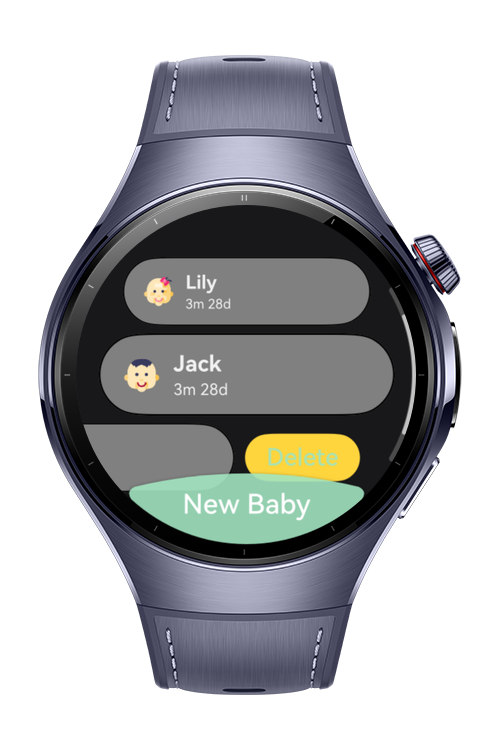
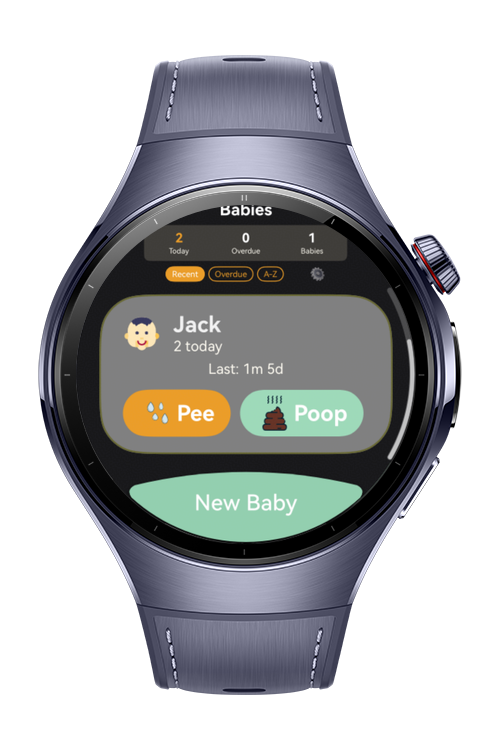
update screenshot and readme

Changed region(s): [[0.15, 0.276, 0.84, 0.736], [0.3, 0.6747, 0.36, 0.7053]]

diff --git a/README.md b/README.md
@@ -1,8 +1,11 @@
-> **Note:** To access all shared projects, get information about environment setup, and view other guides, please visit [Explore-In-HMOS-Wearable Index](https://github.com/Explore-In-HMOS-Wearable/hmos-index).
+> **Note:** To access all shared projects, get information about environment setup, and view other guides, please
+> visit [Explore-In-HMOS-Wearable Index](https://github.com/Explore-In-HMOS-Wearable/hmos-index).
 
 # Baby Day Tracker
 
-**Baby Day Tracker** is a sample HarmonyOS app that makes it easy to record newborn baby's diaper change.
+**Baby Day Tracker** is a HarmonyOS Next wearable app designed for caregivers to track newborn diaper changes for one or
+more babies. It runs on Huawei Watch 5 and provides quick-log actions, history filtering, care insights, reminders, and
+settings — all optimized for small watch screens.
 
 # Preview
 
@@ -15,21 +18,67 @@
 
 # Use Cases
 
-- **Baby:** Add babies to track their diaper change frequency.
-- **Diaper:** Record diaper change.
+## Baby Management
+
+- Add, edit, and archive baby profiles (name, birth date, gender)
+- Quick swipe-to-delete with confirmation dialog
+- Per-baby diaper history with enriched log entries (type, intensity, condition, notes, manual timestamp)
+
+## Quick Logging
+
+- One-tap quick pee/poo entry from the home screen
+- Full log form with manual date/time selection and optional details
+
+## Dashboard & Home
+
+- Cross-baby overview with today log count, overdue count, and active baby count
+- Persistent sort controls (Recent, Overdue First, A–Z)
+- Overdue indicators on baby cards
+- Quick-log buttons on each baby card
+
+## History & Insights
+
+- Per-baby history screen with date-range filters (Today, 7D, 30D, All)
+- Diaper type filters (All, Pee, Poo)
+- Grouped timeline view by date
+- Dedicated insights dashboard with today's count, weekly trend, and comparison vs last week
+
+## Reminders
+
+- Global timer-based reminders using HarmonyOS `reminderAgentManager`
+- Notification permission request with graceful fallback
+- Enable/disable reminders from each baby detail page or Settings
+
+## Settings
+
+- Toggle archive visibility
+- Persistent home sort order selection
+- Default history period preference
+- Reminder enable/disable
+- Onboarding reset
+- Backup export (generates JSON snapshot of all babies, logs, and preferences)
+
+## First-Run Onboarding
+
+- 3-page swipeable intro explaining core product value
+- Appears on first launch only; resets via Settings
 
 # Technology
 
 ## Stack
 
-- **Languages**: ArkTS, Typescript
+- **Languages**: ArkTS, TypeScript
 - **Frameworks**: HarmonyOS SDK 6.0.0(20)
 - **Tools**: DevEco Studio Version 6.0.0(20)
 - **Libraries**:
-    - `@kit.ArkUI`
-    - `@kit.AbilityKit`
-    - `@kit.BasicServicesKit`
-    - `@kit.ArkData`
+    - `@kit.ArkUI` — UI components and Arc UI
+    - `@kit.AbilityKit` — ability lifecycle and context
+    - `@kit.ArkData` — relational database (RDB) persistence
+    - `@kit.BackgroundTasksKit` — `reminderAgentManager` for timer reminders
+    - `@kit.NotificationKit` — `notificationManager` for permission and notifications
+    - `@kit.CoreFileKit` — `BackupExtensionAbility` for system backup hooks
+    - `@kit.BasicServicesKit` — `BusinessError` for typed error handling
+    - `@ohos.data.preferences` — key-value preferences persistence
 
 # Directory Structure
 
@@ -45,40 +94,70 @@
 │   ├──components
 │   │   ├──BabyBirthSelect.ets 
 │   │   ├──BabyListItem.ets 
+│   │   ├──ConfirmDialog.ets 
+│   │   ├──EmptyState.ets 
+│   │   ├──ErrorState.ets 
+│   │   ├──HomeHeader.ets 
+│   │   ├──LoadingState.ets 
 │   │   └──GenderSelect.ets 
 │   ├──lib
 │   │   ├──date-utils.ets 
 │   │   └──SizeConstants.ets 
 │   ├──models
 │   │   ├──Baby.ets 
+│   │   ├──InsightsSummary.ets 
+│   │   ├──UiState.ets 
 │   │   └──Diaper.ets 
 │   ├──pages
 │   │   ├──AddBabyLogPage.ets 
 │   │   ├──AddBabyPage.ets 
 │   │   ├──BabyPage.ets 
+│   │   ├──DiaperDetailPage.ets 
+│   │   ├──EditBabyPage.ets 
+│   │   ├──HistoryPage.ets 
+│   │   ├──InsightsPage.ets 
+│   │   ├──OnboardingPage.ets 
+│   │   ├──PageParams.ets 
+│   │   ├──SettingsPage.ets 
 │   │   └──HomePage.ets 
 │   ├──viewmodels
 │   │   ├──BabyViewModel.ets 
 │   │   ├──DiaperViewModel.ets 
-│   │   └──ListDataSouce.ets 
+│   │   ├──HistoryViewModel.ets 
+│   │   ├──SettingsViewModel.ets 
+│   │   └──ListDataSouce.ets
+│   ├──services
+│   │   └──InsightsService.ets 
 │   ├──views
 │   │   ├──AddBabyView.ets 
 │   │   ├──BabyView.ets 
 │   │   ├──DiaperView.ets 
+│   │   ├──EditBabyView.ets 
+│   │   ├──HistoryView.ets 
+│   │   ├──InsightsView.ets 
+│   │   ├──SettingsView.ets 
 │   │   └──HomeView.ets 
 ├──feature_splash/src/main/ets
 │   ├──components
-│   │   ├──Loader.ets 
+│   │   └──Loader.ets 
 │   └──SplashPage.ets 
 ├──feature_store/src/main/ets
 │   ├──table
 │   │   ├──BabyTable.ets 
 │   │   ├──DiaperTable.ets 
-│   │   ├──RDBTable.ets 
+│   │   └──RDBTable.ets 
+│   ├──preferences
+│   │   └──AppPreferencesService.ets 
+│   ├──repository
+│   │   ├──BabyRepository.ets 
+│   │   └──DiaperRepository.ets 
+│   ├──services
+│   │   ├──BackupService.ets 
+│   │   └──ReminderService.ets
 │   ├──lib
 │   │   └──GlobalContext.ets
 │   ├──Database.ets
-│   ├──Interfaces.ets
+│   └──Interfaces.ets
 
 ```
 
@@ -91,4 +170,4 @@
 # LICENSE
 
 **Baby Day Tracker** is distributed under the terms of the MIT License.
-See the [license](LICENSE) for more information. 
+See the [license](LICENSE) for more information.
